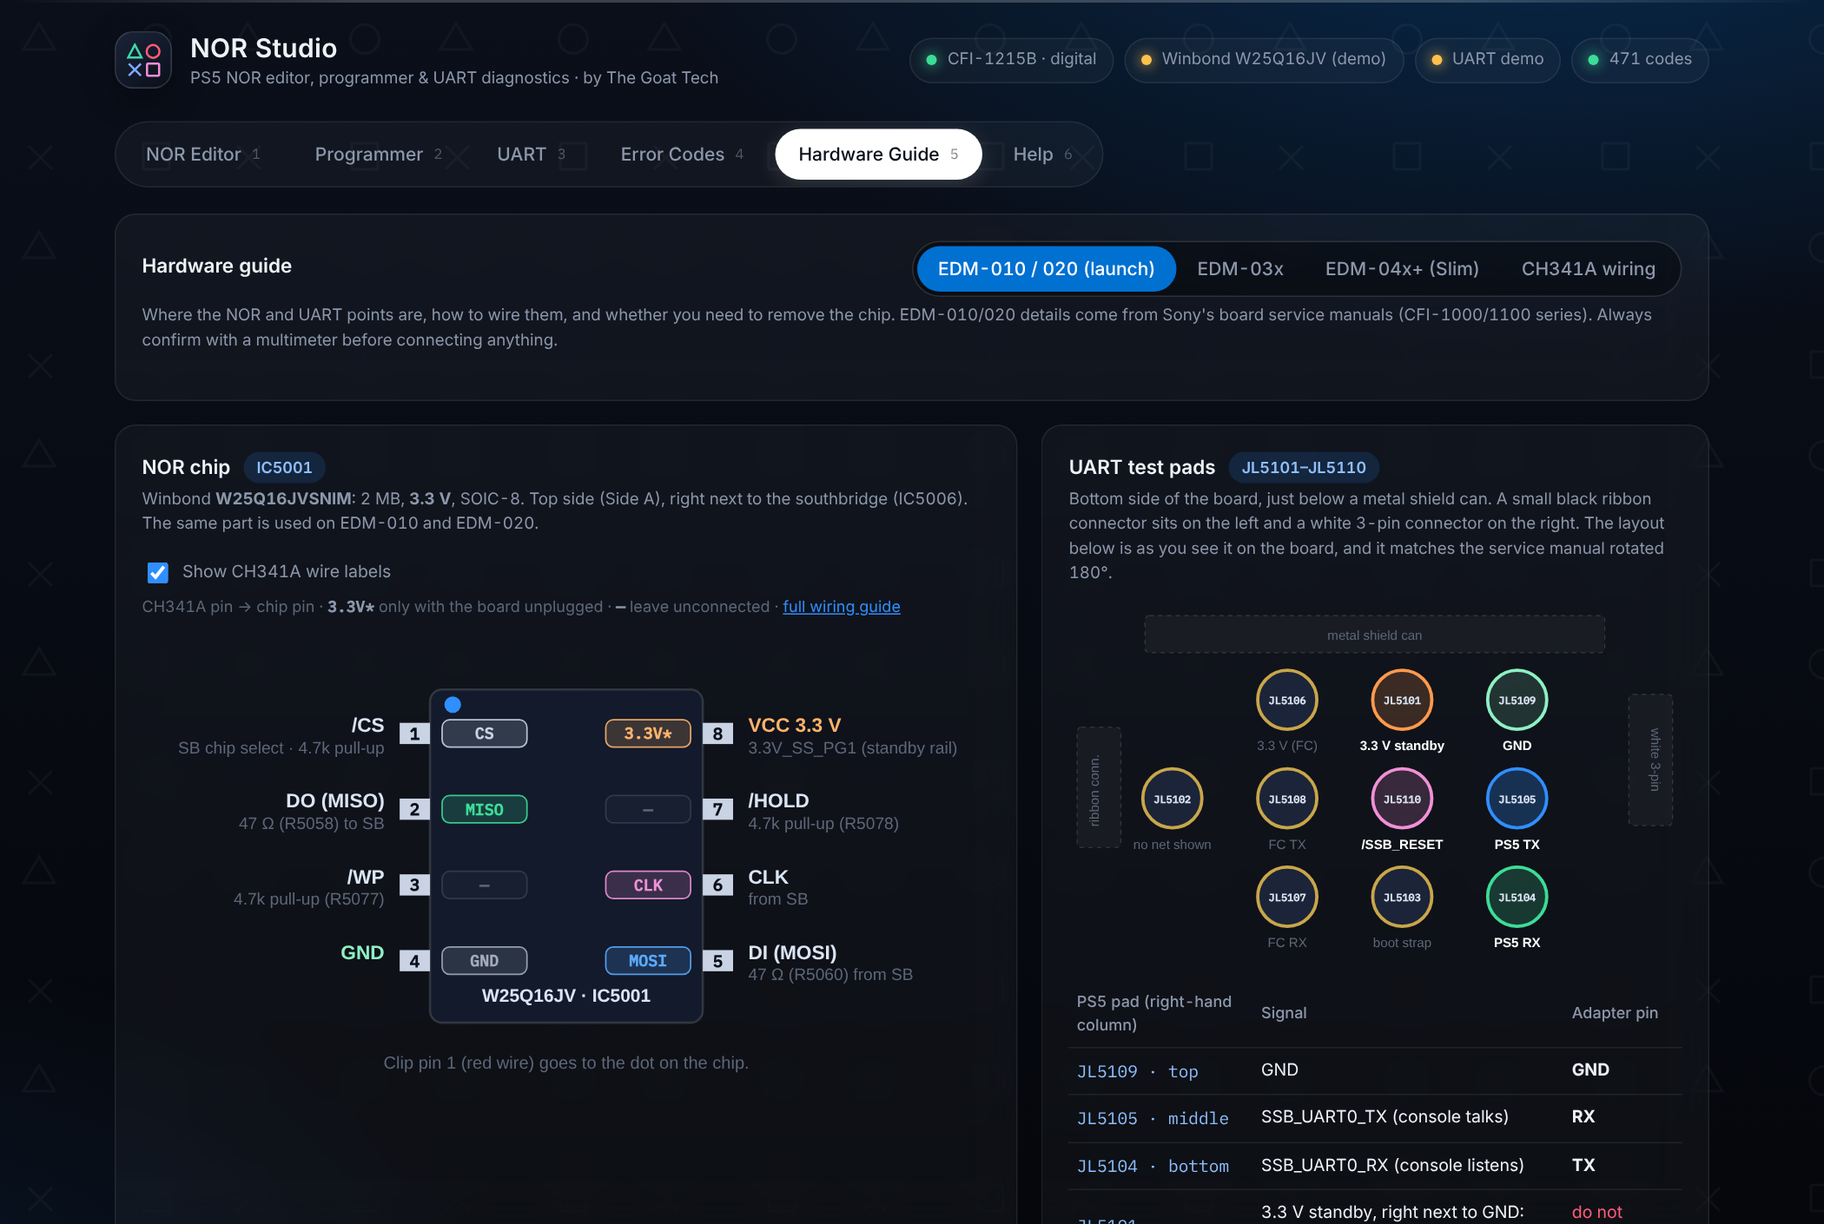
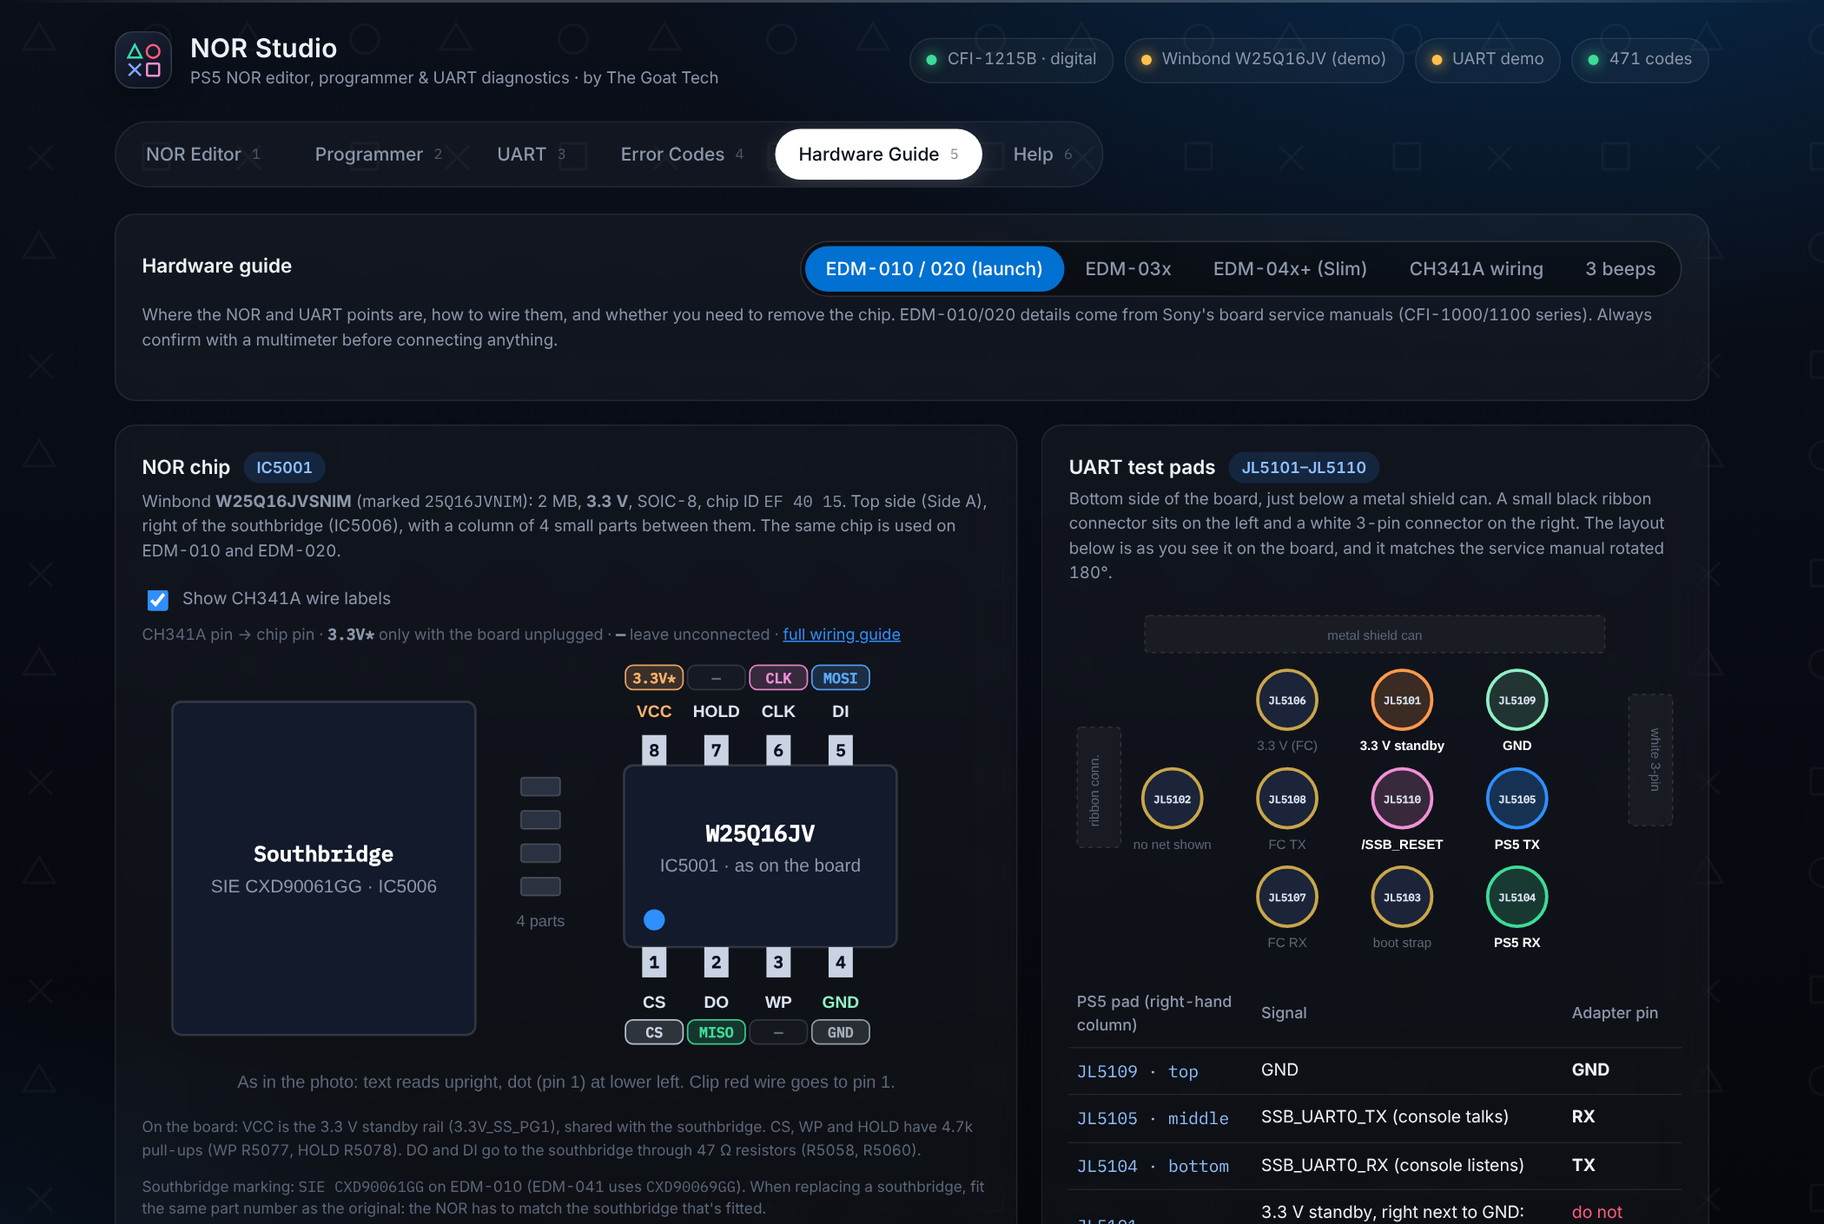
Update NOR Studio: IC5001 diagram redrawn in board orientation, refreshed screenshots
- Hardware guide: the IC5001 diagram is redrawn as it actually sits on the board, replacing the schematic-style pinout
- EDM-010 photos of the NOR (IC5001) next to its CXD90061GG southbridge and the southbridge versions table (EDM-010 CXD90061GG, EDM-041 CXD90069GG)
- index.html: 246,134 -> 240,973 bytes (one schematic SVG removed, replaced by the board-orientation diagram)
- Manual rebuilt: NOR-Studio-Manual.pdf 1,688,917 -> 1,688,792 bytes, manual-src/manual.html updated
- Refreshed screenshots: error-codes, uart, hardware-guide, nor-editor, programmer, hardware-guide-full
- README unchanged in substance: keeps the Gmorb links, coffee badge and manual links (zip ships placeholders again)

diff --git a/index.html b/index.html
@@ -637,33 +637,33 @@ h1,h2,h3{text-wrap:balance}
     <div class="grid g2">
       <div class="card">
         <h2>NOR chip <span class="tag blue">IC5001</span></h2>
-        <p class="sub">Winbond <b>W25Q16JVSNIM</b> (marked <code style="font-family:var(--mono)">25Q16JVNIM</code>): 2&nbsp;MB, <b>3.3&nbsp;V</b>, SOIC-8. Top side (Side A), right next to the southbridge (IC5006, marked <code style="font-family:var(--mono)">SIE CXD90061GG</code> on EDM-010). The same chip is used on EDM-010 and EDM-020. The pinout below is drawn schematic-style; the board view is further down.</p>
+        <p class="sub">Winbond <b>W25Q16JVSNIM</b> (marked <code style="font-family:var(--mono)">25Q16JVNIM</code>): 2&nbsp;MB, <b>3.3&nbsp;V</b>, SOIC-8, chip ID <code style="font-family:var(--mono)">EF 40 15</code>. Top side (Side A), right of the southbridge (IC5006), with a column of 4 small parts between them. The same chip is used on EDM-010 and EDM-020.</p>
 <div class="wiretog"><label class="check"><input type="checkbox" class="wireToggle" checked> Show CH341A wire labels</label><span class="wl-legend">CH341A pin → chip pin · <b>3.3V*</b> only with the board unplugged · <b>—</b> leave unconnected · <a href="#" data-goto-wire>full wiring guide</a></span></div>
-        <svg viewBox="0 0 560 300" class="diagram" role="img" aria-label="IC5001 pinout">
-          <rect x="190" y="40" width="180" height="220" rx="8" class="chip"/>
-          <circle cx="205" cy="50" r="5.5" class="pin1"/>
-          <text x="280" y="246" class="chipsub" style="font-weight:600;fill:#dbe4f3">W25Q16JV · IC5001</text>
-          <!-- left pins 1-4 -->
+        <svg viewBox="0 0 560 300" class="diagram" role="img" aria-label="EDM-010 NOR location as seen on the board">
+          <rect x="20" y="30" width="200" height="220" rx="6" class="chip"/>
+          <text x="120" y="135" class="chiplbl" style="font-size:14px">Southbridge</text><text x="120" y="156" class="chipsub">SIE CXD90061GG · IC5006</text>
+          <g fill="#2a3242" stroke="rgba(255,255,255,.18)">
+            <rect x="250" y="80" width="26" height="12" rx="2"/><rect x="250" y="102" width="26" height="12" rx="2"/>
+            <rect x="250" y="124" width="26" height="12" rx="2"/><rect x="250" y="146" width="26" height="12" rx="2"/>
+          </g>
+          <text x="263" y="178" class="landt" style="font-size:10.5px">4 parts</text>
+          <rect x="318" y="72" width="180" height="120" rx="6" class="chip"/>
+          <text x="408" y="122" class="chiplbl" style="font-size:15px">W25Q16JV</text><text x="408" y="142" class="chipsub">IC5001 · as on the board</text>
+          <circle cx="338" cy="174" r="7" class="pin1"/>
           <g class="pins">
-            <rect x="170" y="62" width="20" height="14"/><rect x="170" y="112" width="20" height="14"/><rect x="170" y="162" width="20" height="14"/><rect x="170" y="212" width="20" height="14"/>
-            <rect x="370" y="62" width="20" height="14"/><rect x="370" y="112" width="20" height="14"/><rect x="370" y="162" width="20" height="14"/><rect x="370" y="212" width="20" height="14"/>
+            <rect x="330" y="192" width="16" height="20"/><rect x="371" y="192" width="16" height="20"/><rect x="412" y="192" width="16" height="20"/><rect x="453" y="192" width="16" height="20"/>
+            <rect x="330" y="52" width="16" height="20"/><rect x="371" y="52" width="16" height="20"/><rect x="412" y="52" width="16" height="20"/><rect x="453" y="52" width="16" height="20"/>
           </g>
-          <g class="pinno"><text x="180" y="73">1</text><text x="180" y="123">2</text><text x="180" y="173">3</text><text x="180" y="223">4</text>
-            <text x="380" y="73">8</text><text x="380" y="123">7</text><text x="380" y="173">6</text><text x="380" y="223">5</text></g>
-          <g class="net" text-anchor="end">
-            <text x="160" y="68">/CS</text><text x="160" y="82" class="nsub">SB chip select · 4.7k pull-up</text>
-            <text x="160" y="118">DO (MISO)</text><text x="160" y="132" class="nsub">47 Ω (R5058) to SB</text>
-            <text x="160" y="168">/WP</text><text x="160" y="182" class="nsub">4.7k pull-up (R5077)</text>
-            <text x="160" y="218" class="gnd">GND</text>
+          <g class="pinno"><text x="338" y="206">1</text><text x="379" y="206">2</text><text x="420" y="206">3</text><text x="461" y="206">4</text>
+            <text x="338" y="66">8</text><text x="379" y="66">7</text><text x="420" y="66">6</text><text x="461" y="66">5</text></g>
+          <g class="net" style="font-size:11px">
+            <text x="338" y="232" text-anchor="middle" style="font-size:11px">CS</text><text x="379" y="232" text-anchor="middle" style="font-size:11px">DO</text><text x="420" y="232" text-anchor="middle" style="font-size:11px">WP</text><text x="461" y="232" text-anchor="middle" class="gnd" style="font-size:11px">GND</text>
+            <text x="338" y="40" text-anchor="middle" class="vcc" style="font-size:11px">VCC</text><text x="379" y="40" text-anchor="middle" style="font-size:11px">HOLD</text><text x="420" y="40" text-anchor="middle" style="font-size:11px">CLK</text><text x="461" y="40" text-anchor="middle" style="font-size:11px">DI</text>
           </g>
-          <g class="net">
-            <text x="400" y="68" class="vcc">VCC 3.3 V</text><text x="400" y="82" class="nsub">3.3V_SS_PG1 (standby rail)</text>
-            <text x="400" y="118">/HOLD</text><text x="400" y="132" class="nsub">4.7k pull-up (R5078)</text>
-            <text x="400" y="168">CLK</text><text x="400" y="182" class="nsub">from SB</text>
-            <text x="400" y="218">DI (MOSI)</text><text x="400" y="232" class="nsub">47 Ω (R5060) from SB</text>
-          </g>
-          <g class="wirebadges"><g class="wb"><rect x="198" y="60" width="56" height="18" rx="5" fill="#c9d3e3" fill-opacity="0.18" stroke="#c9d3e3" stroke-opacity="0.9"/><text x="226.0" y="72.7" text-anchor="middle" fill="#c9d3e3" style="font:700 10.5px var(--mono)">CS</text></g><g class="wb"><rect x="198" y="110" width="56" height="18" rx="5" fill="#3ddc97" fill-opacity="0.18" stroke="#3ddc97" stroke-opacity="0.9"/><text x="226.0" y="122.7" text-anchor="middle" fill="#3ddc97" style="font:700 10.5px var(--mono)">MISO</text></g><g class="wb"><rect x="198" y="160" width="56" height="18" rx="5" fill="#5d6779" fill-opacity="0.08" stroke="#5d6779" stroke-opacity="0.4"/><text x="226.0" y="172.7" text-anchor="middle" fill="#5d6779" style="font:700 10.5px var(--mono)">—</text></g><g class="wb"><rect x="198" y="210" width="56" height="18" rx="5" fill="#a3abb8" fill-opacity="0.18" stroke="#a3abb8" stroke-opacity="0.9"/><text x="226.0" y="222.7" text-anchor="middle" fill="#a3abb8" style="font:700 10.5px var(--mono)">GND</text></g><g class="wb"><rect x="306" y="60" width="56" height="18" rx="5" fill="#ffb36b" fill-opacity="0.18" stroke="#ffb36b" stroke-opacity="0.9"/><text x="334.0" y="72.7" text-anchor="middle" fill="#ffb36b" style="font:700 10.5px var(--mono)">3.3V*</text></g><g class="wb"><rect x="306" y="110" width="56" height="18" rx="5" fill="#5d6779" fill-opacity="0.08" stroke="#5d6779" stroke-opacity="0.4"/><text x="334.0" y="122.7" text-anchor="middle" fill="#5d6779" style="font:700 10.5px var(--mono)">—</text></g><g class="wb"><rect x="306" y="160" width="56" height="18" rx="5" fill="#f290d6" fill-opacity="0.18" stroke="#f290d6" stroke-opacity="0.9"/><text x="334.0" y="172.7" text-anchor="middle" fill="#f290d6" style="font:700 10.5px var(--mono)">CLK</text></g><g class="wb"><rect x="306" y="210" width="56" height="18" rx="5" fill="#5aa9ff" fill-opacity="0.18" stroke="#5aa9ff" stroke-opacity="0.9"/><text x="334.0" y="222.7" text-anchor="middle" fill="#5aa9ff" style="font:700 10.5px var(--mono)">MOSI</text></g></g><text x="280" y="290" class="foot">Clip pin 1 (red wire) goes to the dot on the chip.</text>
+          <g class="wirebadges"><g class="wb"><rect x="319" y="240" width="38" height="16" rx="5" fill="#c9d3e3" fill-opacity="0.18" stroke="#c9d3e3" stroke-opacity="0.9"/><text x="338.0" y="251.7" text-anchor="middle" fill="#c9d3e3" style="font:700 9.5px var(--mono)">CS</text></g><g class="wb"><rect x="360" y="240" width="38" height="16" rx="5" fill="#3ddc97" fill-opacity="0.18" stroke="#3ddc97" stroke-opacity="0.9"/><text x="379.0" y="251.7" text-anchor="middle" fill="#3ddc97" style="font:700 9.5px var(--mono)">MISO</text></g><g class="wb"><rect x="401" y="240" width="38" height="16" rx="5" fill="#5d6779" fill-opacity="0.08" stroke="#5d6779" stroke-opacity="0.4"/><text x="420.0" y="251.7" text-anchor="middle" fill="#5d6779" style="font:700 9.5px var(--mono)">—</text></g><g class="wb"><rect x="442" y="240" width="38" height="16" rx="5" fill="#a3abb8" fill-opacity="0.18" stroke="#a3abb8" stroke-opacity="0.9"/><text x="461.0" y="251.7" text-anchor="middle" fill="#a3abb8" style="font:700 9.5px var(--mono)">GND</text></g><g class="wb"><rect x="319" y="6" width="38" height="16" rx="5" fill="#ffb36b" fill-opacity="0.18" stroke="#ffb36b" stroke-opacity="0.9"/><text x="338.0" y="17.7" text-anchor="middle" fill="#ffb36b" style="font:700 9.5px var(--mono)">3.3V*</text></g><g class="wb"><rect x="360" y="6" width="38" height="16" rx="5" fill="#5d6779" fill-opacity="0.08" stroke="#5d6779" stroke-opacity="0.4"/><text x="379.0" y="17.7" text-anchor="middle" fill="#5d6779" style="font:700 9.5px var(--mono)">—</text></g><g class="wb"><rect x="401" y="6" width="38" height="16" rx="5" fill="#f290d6" fill-opacity="0.18" stroke="#f290d6" stroke-opacity="0.9"/><text x="420.0" y="17.7" text-anchor="middle" fill="#f290d6" style="font:700 9.5px var(--mono)">CLK</text></g><g class="wb"><rect x="442" y="6" width="38" height="16" rx="5" fill="#5aa9ff" fill-opacity="0.18" stroke="#5aa9ff" stroke-opacity="0.9"/><text x="461.0" y="17.7" text-anchor="middle" fill="#5aa9ff" style="font:700 9.5px var(--mono)">MOSI</text></g></g><text x="280" y="285" class="foot">As in the photo: text reads upright, dot (pin 1) at lower left. Clip red wire goes to pin 1.</text>
         </svg>
+        <div class="hint">On the board: VCC is the 3.3&nbsp;V standby rail (3.3V_SS_PG1), shared with the southbridge. CS, WP and HOLD have 4.7k pull-ups (WP R5077, HOLD R5078). DO and DI go to the southbridge through 47&nbsp;Ω resistors (R5058, R5060).</div>
+        <div class="hint">Southbridge marking: <code style="font-family:var(--mono)">SIE CXD90061GG</code> on EDM-010 (EDM-041 uses <code style="font-family:var(--mono)">CXD90069GG</code>). When replacing a southbridge, fit the same part number as the original: the NOR has to match the southbridge that's fitted.</div>
       </div>
 
       <div class="card">
@@ -694,47 +694,6 @@ h1,h2,h3{text-wrap:balance}
           <tr><td>JL5101</td><td>3.3 V standby, right next to GND: <i>measure only</i></td><td><span style="color:var(--bad)">do not connect</span></td></tr>
         </table>
         <div class="hint">The right-hand column is GND / TX / RX from top to bottom. That matches the reference photo in <a href="https://github.com/amoamare/Console-Service-Tool/blob/master/Resources/UARTLocations/PlayStation5/EDM_010_020_UART.png" target="_blank" rel="noopener">Console Service Tool</a>. The schematic shows no net on JL5109, so confirm it has continuity to ground before you use it. "FC" pads belong to the SSD controller.</div>
-      </div>
-    </div>
-
-    <div class="grid g2" style="margin-top:18px">
-      <div class="card">
-        <h2>NOR on the board <span class="tag blue">EDM-010</span></h2>
-        <p class="sub">How IC5001 actually looks on an EDM-010: right of the southbridge, with a column of 4 small parts between them. With the chip's text upright, the dot (pin&nbsp;1) is at the <b>lower left</b>. Pins 1–4 run along the bottom, 5–8 along the top from right to left.</p>
-<div class="wiretog"><label class="check"><input type="checkbox" class="wireToggle" checked> Show CH341A wire labels</label><span class="wl-legend">CH341A pin → chip pin · <b>3.3V*</b> only with the board unplugged · <b>—</b> leave unconnected · <a href="#" data-goto-wire>full wiring guide</a></span></div>
-        <svg viewBox="0 0 560 300" class="diagram" role="img" aria-label="EDM-010 NOR location as seen on the board">
-          <rect x="20" y="30" width="200" height="220" rx="6" class="chip"/>
-          <text x="120" y="135" class="chiplbl" style="font-size:14px">Southbridge</text><text x="120" y="156" class="chipsub">SIE CXD90061GG · IC5006</text>
-          <g fill="#2a3242" stroke="rgba(255,255,255,.18)">
-            <rect x="250" y="80" width="26" height="12" rx="2"/><rect x="250" y="102" width="26" height="12" rx="2"/>
-            <rect x="250" y="124" width="26" height="12" rx="2"/><rect x="250" y="146" width="26" height="12" rx="2"/>
-          </g>
-          <text x="263" y="178" class="landt" style="font-size:10.5px">4 parts</text>
-          <rect x="318" y="72" width="180" height="120" rx="6" class="chip"/>
-          <text x="408" y="122" class="chiplbl" style="font-size:15px">W25Q16JV</text><text x="408" y="142" class="chipsub">IC5001 · as on the board</text>
-          <circle cx="338" cy="174" r="7" class="pin1"/>
-          <g class="pins">
-            <rect x="330" y="192" width="16" height="20"/><rect x="371" y="192" width="16" height="20"/><rect x="412" y="192" width="16" height="20"/><rect x="453" y="192" width="16" height="20"/>
-            <rect x="330" y="52" width="16" height="20"/><rect x="371" y="52" width="16" height="20"/><rect x="412" y="52" width="16" height="20"/><rect x="453" y="52" width="16" height="20"/>
-          </g>
-          <g class="pinno"><text x="338" y="206">1</text><text x="379" y="206">2</text><text x="420" y="206">3</text><text x="461" y="206">4</text>
-            <text x="338" y="66">8</text><text x="379" y="66">7</text><text x="420" y="66">6</text><text x="461" y="66">5</text></g>
-          <g class="net" style="font-size:11px">
-            <text x="338" y="232" text-anchor="middle" style="font-size:11px">CS</text><text x="379" y="232" text-anchor="middle" style="font-size:11px">DO</text><text x="420" y="232" text-anchor="middle" style="font-size:11px">WP</text><text x="461" y="232" text-anchor="middle" class="gnd" style="font-size:11px">GND</text>
-            <text x="338" y="40" text-anchor="middle" class="vcc" style="font-size:11px">VCC</text><text x="379" y="40" text-anchor="middle" style="font-size:11px">HOLD</text><text x="420" y="40" text-anchor="middle" style="font-size:11px">CLK</text><text x="461" y="40" text-anchor="middle" style="font-size:11px">DI</text>
-          </g>
-          <g class="wirebadges"><g class="wb"><rect x="319" y="240" width="38" height="16" rx="5" fill="#c9d3e3" fill-opacity="0.18" stroke="#c9d3e3" stroke-opacity="0.9"/><text x="338.0" y="251.7" text-anchor="middle" fill="#c9d3e3" style="font:700 9.5px var(--mono)">CS</text></g><g class="wb"><rect x="360" y="240" width="38" height="16" rx="5" fill="#3ddc97" fill-opacity="0.18" stroke="#3ddc97" stroke-opacity="0.9"/><text x="379.0" y="251.7" text-anchor="middle" fill="#3ddc97" style="font:700 9.5px var(--mono)">MISO</text></g><g class="wb"><rect x="401" y="240" width="38" height="16" rx="5" fill="#5d6779" fill-opacity="0.08" stroke="#5d6779" stroke-opacity="0.4"/><text x="420.0" y="251.7" text-anchor="middle" fill="#5d6779" style="font:700 9.5px var(--mono)">—</text></g><g class="wb"><rect x="442" y="240" width="38" height="16" rx="5" fill="#a3abb8" fill-opacity="0.18" stroke="#a3abb8" stroke-opacity="0.9"/><text x="461.0" y="251.7" text-anchor="middle" fill="#a3abb8" style="font:700 9.5px var(--mono)">GND</text></g><g class="wb"><rect x="319" y="6" width="38" height="16" rx="5" fill="#ffb36b" fill-opacity="0.18" stroke="#ffb36b" stroke-opacity="0.9"/><text x="338.0" y="17.7" text-anchor="middle" fill="#ffb36b" style="font:700 9.5px var(--mono)">3.3V*</text></g><g class="wb"><rect x="360" y="6" width="38" height="16" rx="5" fill="#5d6779" fill-opacity="0.08" stroke="#5d6779" stroke-opacity="0.4"/><text x="379.0" y="17.7" text-anchor="middle" fill="#5d6779" style="font:700 9.5px var(--mono)">—</text></g><g class="wb"><rect x="401" y="6" width="38" height="16" rx="5" fill="#f290d6" fill-opacity="0.18" stroke="#f290d6" stroke-opacity="0.9"/><text x="420.0" y="17.7" text-anchor="middle" fill="#f290d6" style="font:700 9.5px var(--mono)">CLK</text></g><g class="wb"><rect x="442" y="6" width="38" height="16" rx="5" fill="#5aa9ff" fill-opacity="0.18" stroke="#5aa9ff" stroke-opacity="0.9"/><text x="461.0" y="17.7" text-anchor="middle" fill="#5aa9ff" style="font:700 9.5px var(--mono)">MOSI</text></g></g><text x="280" y="285" class="foot">As in the photo: text reads upright, dot (pin 1) at lower left. Clip red wire goes to pin 1.</text>
-        </svg>
-      </div>
-      <div class="card">
-        <h2>Southbridge versions</h2>
-        <p class="sub">Different boards use different southbridges, and the NOR has to match the one fitted.</p>
-        <table class="wire">
-          <tr><th>Board</th><th>Southbridge marking</th></tr>
-          <tr><td>EDM-010</td><td><code>SIE CXD90061GG</code> (seen on a user's board)</td></tr>
-          <tr><td>EDM-041</td><td><code>SIE CXD90069GG</code> (seen on a user's board)</td></tr>
-        </table>
-        <div class="hint">Replacing a southbridge? Fit the same part number as the original. A repairer on an EDM-031 found the board stayed dead with the other version until the NOR came from a board with the matching southbridge.</div>
       </div>
     </div>
 

diff --git a/docs/manual-src/manual.html b/docs/manual-src/manual.html
@@ -307,7 +307,7 @@ td.m{font-family:var(--mono); font-size:8.8pt; font-weight:500}
   <p class="lede">Where the NOR and UART points are on each board, and how to wire them.</p>
   <table>
     <tr><th>Section</th><th>What's in it</th></tr>
-    <tr><td>EDM-010 / 020</td><td>NOR IC5001 pinout and UART pads JL5101–JL5110 from Sony's service manuals, a view of the NOR as it sits on an EDM-010 (next to the CXD90061GG southbridge), and a table of southbridge versions.</td></tr>
+    <tr><td>EDM-010 / 020</td><td>NOR IC5001 pinout and UART pads JL5101–JL5110 from Sony's service manuals, and the NOR drawn as it sits on an EDM-010, next to its CXD90061GG southbridge.</td></tr>
     <tr><td>EDM-03x</td><td>UART pads near F5402 and NOR notes.</td></tr>
     <tr><td>EDM-04x+ (Slim)</td><td>UART pad map, and photos of the NOR (W25Q16JV, next to the southbridge, pin 1 dot lower left) from an EDM-041.</td></tr>
     <tr><td>CH341A wiring</td><td>Wiring the programmer straight to the chip, with labels on the chip diagram. You can turn the labels off.</td></tr>

diff --git a/CHANGELOG.md b/CHANGELOG.md
@@ -3,7 +3,7 @@
 ## v1.2.0
 
 ### Added
-- EDM-010 photos of the NOR (IC5001) next to its `CXD90061GG` southbridge, a board-orientation view of the chip in the Hardware Guide tab, and a southbridge versions table (EDM-010 `CXD90061GG`, EDM-041 `CXD90069GG`).
+- EDM-010 photos of the NOR (IC5001) next to its `CXD90061GG` southbridge, the IC5001 diagram in the Hardware Guide tab redrawn as it actually sits on the board (replacing the schematic-style pinout), and a southbridge versions table (EDM-010 `CXD90061GG`, EDM-041 `CXD90069GG`).
 - **User manual (PDF)** in `docs/NOR-Studio-Manual.pdf`: safety, setup, every tab, step-by-step jobs, the 3 beeps troubleshooter and troubleshooting. Its source is in `docs/manual-src/` and rebuilds with `build_manual.py`.
 - **3 beeps troubleshooter** in the Hardware Guide tab: the order to check things in when a console beeps three times on plug-in, the EDM-041 case it came from, how to vet a donor dump, and how to put your own identity back.
 - The NOR Editor health check reads the dump's own error log. A donor whose log shows APU, power-sequence or thermal faults gets a warning, so you know that console was faulty and that those codes aren't yours.
